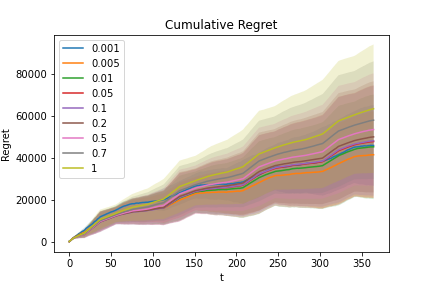
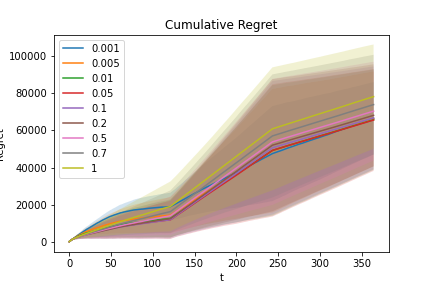
Step 6 sensitivity on gamma

diff --git a/step_6.py b/step_6.py
@@ -16,20 +16,20 @@ from Learners.CUSUM_UCB1_Learner_old import CUSUM_UCB1_Learner_old
 from Learners.EXP3_Learner_v2 import EXP3_Learner
 
 from param import T, n_arms_pricing, n_arms_pricing, p1_step_6, n_experiments_S6
-from param import production_cost, selected_bid_S6
+from param import production_cost, selected_bid_S6, p1_non_stationary
 from param import N_cd, eps_cd, threshold_cd
 from param import Tau
 
 
-# %% Non-Stationary setting:
+# %% Test EXP3 with 3 changes
 
-Collector = UserC1(True, True, p1_step_6)
+Collector = UserC1(True, True, p1_non_stationary)
 
-n_phases = len(p1_step_6)
+n_phases = len(p1_non_stationary)
 phases_len = np.ceil(T / n_phases)
 
 optimum = Collector.clairvoyant()
-# %%
+
 opt = np.array([])
 for i in range(0, n_phases):
     opt = np.append(opt, optimum[i][2])
@@ -47,22 +47,11 @@ ucb1_rewards_per_experiment = []
 sw_ucb1_rewards_per_experiment = []
 cd_ucb1_rewards_per_experiment = []
 exp3_rewards_per_experiment = []
-# ucb1_instantaneous_regret = []
-# ucb1_cumulative_regret = []
-
-M = 600  # TODO turn M into a vector
-
-
-# %% Plot the demand curves and the expected reward curves for each phase:
-fig = plt.figure()
-Collector_aux = UserC1(True, True, p1_step_6[:5])
-Collector_aux.plot_demand_curve()
-plt.legend(["phase 1", "phase 2", "phase 3", "phase 4", "phase 5"])
-plt.title("Conversion Rate Curves")
-plt.show()
 
 # %% Optimization of gamma in EXP3
 gamma = [0.001, 0.005, 0.01, 0.05, 0.1, 0.2, 0.5, 0.7, 1]
+
+Collector_S5 = UserC1(True, True, p1_non_stationary)
 
 avg_regret_exp3 = []
 std_regret_exp3 = []
@@ -76,7 +65,7 @@ for g in gamma:
             selected_bid=selected_bid_S6,
             production_cost=production_cost,
             n_arms=n_arms_pricing,
-            user=Collector,
+            user=Collector_S5,
             horizon=T,
         )
 
@@ -125,8 +114,39 @@ plt.show()
 fig.savefig("results/S6_cumulative_regret_by_gamma.png")
 
 
+# %% Test EXP3 with many changes
+Collector = UserC1(True, True, p1_step_6)
+
+n_phases = len(p1_step_6)
+phases_len = np.ceil(T / n_phases)
+
+optimum = Collector.clairvoyant()
+
+opt = np.array([])
+for i in range(0, n_phases):
+    opt = np.append(opt, optimum[i][2])
+
+
+opt_vec = np.array([])
+for i in range(0, T):
+    current_phase = int(i / phases_len)
+    opt_vec = np.append(opt_vec, opt[current_phase])
+
+n_clicks = Collector.click_vs_bid(selected_bid_S6)
+cost_of_click = Collector.cost_vs_bid(selected_bid_S6)
+
+
+# %% Plot the demand curves and the expected reward curves for each phase:
+fig = plt.figure()
+Collector_aux = UserC1(True, True, p1_step_6[:5])
+Collector_aux.plot_demand_curve()
+plt.legend(["phase 1", "phase 2", "phase 3", "phase 4", "phase 5"])
+plt.title("Conversion Rate Curves")
+plt.show()
+
+
 # %% Run the experiments
-gamma = 0.01
+gamma = 0.05
 
 ucb1_rewards_per_experiment = []
 sw_ucb1_rewards_per_experiment = []
@@ -169,7 +189,7 @@ for e in range(0, n_experiments_S6):
         production_cost=production_cost,
         n_clicks=n_clicks,
         cost_of_click=cost_of_click,
-        M=M,
+        M=600,
     )
     # sw_ucb1_learner = SW_UCB1_Learner_old(n_arms_pricing, Collector._max_price, Tau)
     # cd_ucb1_learner = CUSUM_UCB1_Learner_old(n_arm, Collector._max_price, N, eps, threshold)

diff --git a/param.py b/param.py
@@ -47,9 +47,8 @@ max_conversion_rate = 0.4  # for plots
 
 p1_non_stationary = np.array(
     [
-        [0.05, 0.1, 0.1, 0.025, 0.0125]
-        [0.15, 0.1, 0.05, 0.025, 0.0125],
-        [0.0125, 0.025, 0.1, 0.1, 0.05]
+        [0.05, 0.1, 0.1, 0.025, 0.0125][0.15, 0.1, 0.05, 0.025, 0.0125],
+        [0.0125, 0.025, 0.1, 0.1, 0.05],
     ]
 )
 
@@ -75,6 +74,16 @@ alpha = 0.001
 
 p1_step_6 = np.array(
     [
+        [0.05, 0.1, 0.1, 0.025, 0.0125],
+        [0.0125, 0.025, 0.1, 0.1, 0.05],
+        [0.15, 0.1, 0.05, 0.025, 0.0125],
+        [0.11, 0.12, 0.13, 0.07, 0.04],
+        [0.13, 0.12, 0.11, 0.07, 0.03],
+        [0.05, 0.1, 0.1, 0.025, 0.0125],
+        [0.0125, 0.025, 0.1, 0.1, 0.05],
+        [0.15, 0.1, 0.05, 0.025, 0.0125],
+        [0.11, 0.12, 0.13, 0.07, 0.04],
+        [0.13, 0.12, 0.11, 0.07, 0.03],
         [0.05, 0.1, 0.1, 0.025, 0.0125],
         [0.0125, 0.025, 0.1, 0.1, 0.05],
         [0.15, 0.1, 0.05, 0.025, 0.0125],
